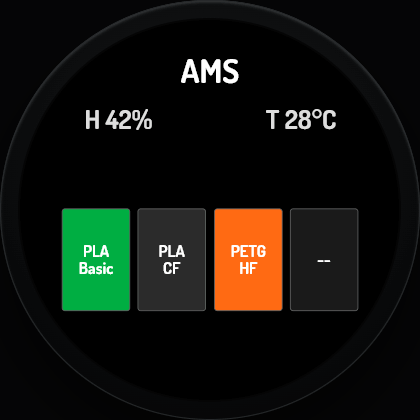
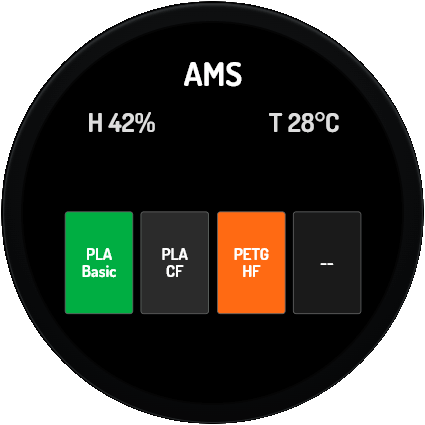
Restore per-state screenshot gallery in README
Merges state-tile images and gallery table back into README alongside
the agent-orch credit line, plus refreshed status/AMS screenshots.

Claude-Session: https://claude.ai/code/session_01WMkzPgF95XSgvp4M79Jibv

diff --git a/README.md b/README.md
@@ -23,9 +23,19 @@ Swipe left/right — or tap the left/right half of the glass — to switch pages
 auto-rotates in 90° steps and keeps text upright, and dims to 50% five minutes after a
 print finishes.
 
-**The ring at a glance:** dim grey when idle · live green while printing · calm blue when
-done. It also pulses amber to pause, orange to preheat, purple during bed levelling, and
-red on error.
+## The ring at a glance
+
+One colour tells you the state of a print from across the room:
+
+| ![Idle](docs/assets/state-idle.png) | ![Preheat](docs/assets/state-preheat.png) | ![Levelling](docs/assets/state-leveling.png) | ![Printing](docs/assets/state-printing.png) |
+|:---:|:---:|:---:|:---:|
+| **Idle** — ready, grey | **Preheat** — warming up, orange | **Levelling** — bed mesh, purple | **Printing** — live progress, green |
+
+| ![Paused](docs/assets/state-paused.png) | ![Finished](docs/assets/state-finished.png) | ![Error](docs/assets/state-error.png) | |
+|:---:|:---:|:---:|:---:|
+| **Paused** — on hold, amber | **Finished** — complete, blue | **Error** — [flashing red](docs/assets/state-error.gif), needs attention | |
+
+*(Full overview: [state-tiles.png](docs/assets/state-tiles.png))*
 
 ## Hardware
 